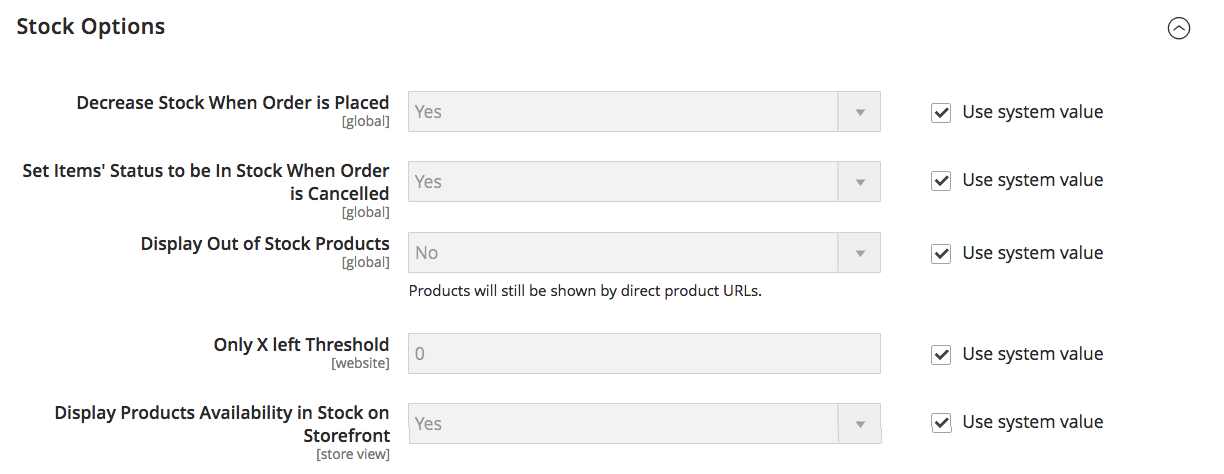
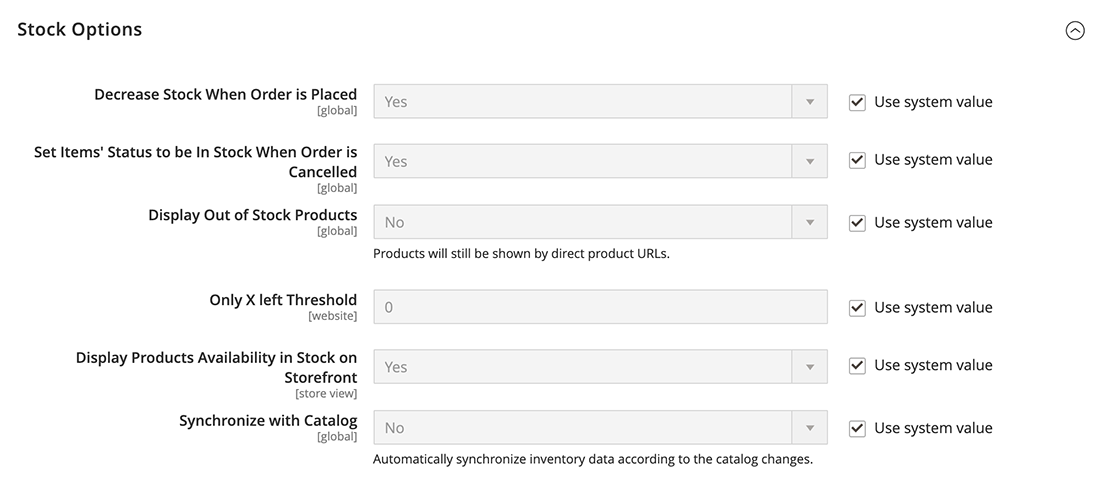
MSI-2724: Inventory is not updated when Product SKU is changed (merchant documentation)

diff --git a/src/catalog/inventory-options-global.md b/src/catalog/inventory-options-global.md
@@ -25,6 +25,8 @@ Configure the default configuration options for product and stock for your websi
         The message begins to appear when the quantity in stock reaches the threshold. For example, if set to `3`, the message “Only 3 left” appears when the quantity in stock reaches three. The message adjusts to reflect the quantity in stock, until the quantity reaches zero.
 
     - To display an “In Stock” or “Out of Stock” message on the product page, set **Display Products Availability In Stock on Storefront** to `Yes`.
+    
+    - To keep consistency between inventory and catalog, set **Synchronize with Catalog** to `Yes`. With the option enabled inventory data will be adjusted according to the catalog changes (product removed; product SKU changed; product type changed; etc.)
 
        ![]({% link images/images/config-catalog-catalog-inventory-stock-options.png %}){: .zoom}
        [_Stock Options_]({% link configuration/catalog/inventory.md %})
